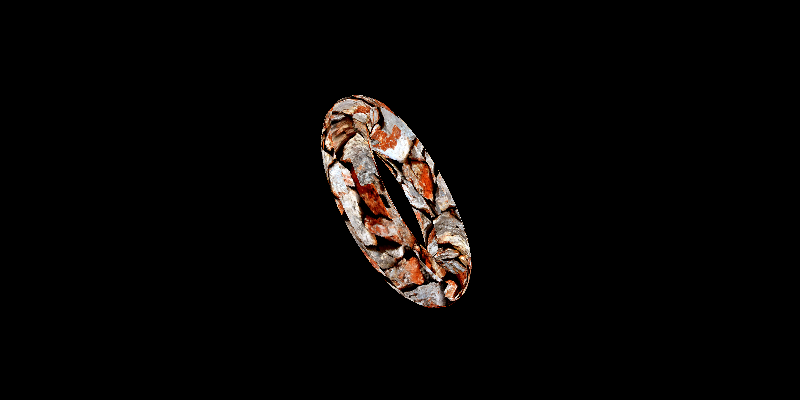
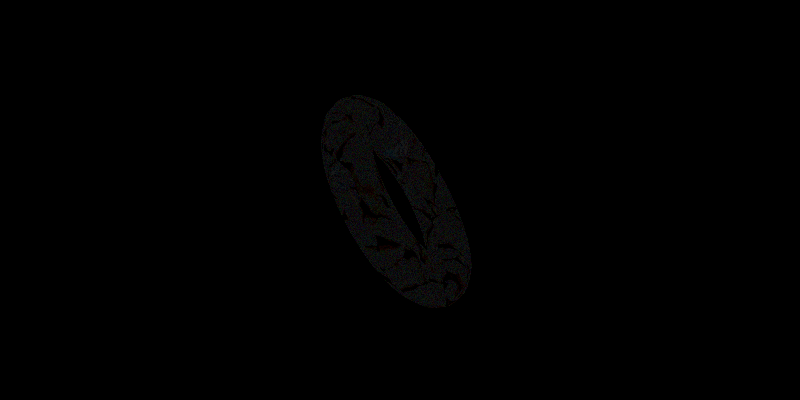
added

Changed region(s): [[0.375, 0.24, 0.5938, 0.78]]

diff --git a/src/fancytracer.c b/src/fancytracer.c
@@ -10,8 +10,10 @@
 const float FOCAL_LENGTH = 2.0f;
 const int WIDTH = 800;
 const int HEIGHT = 400;
+const int SAMPLES = 10;
 const char *FILENAME = "output.png";
 const char *OBJFILE = "baseScene.obj";
+
 
 void render_scene(const char *filename, const int width, const int height, const char *objfile) {
     // Measure total execution time
@@ -54,33 +56,36 @@ void render_scene(const char *filename, const int width, const int height, const
         #pragma omp for collapse(1) schedule(dynamic, 2) reduction(+:ray_intersect_time)
         for (int y = 0; y < height; y++) {
             for (int x = 0; x < width; x++) {
-                screen2CameraDir(&cam, x, y, &cam_ray.direction);
                 // Vec3 intersect_point;
                 double ray_intersect_start = omp_get_wtime();
-                Vec3 barycentric;
-                int tria_ind = castRay(&cam_ray, &mainScene, &barycentric);
-                int r, g, b;
-                r = 0;
-                g = 0;
-                b = 0;
-                if (tria_ind != -1) {
-                    // color = 255;
-                    Vec3 out_reflect;
-                    Triangle *this_tria = &mainScene.triangles->triangles[tria_ind];
-                    ray_intersects_triangle(&cam_ray, this_tria, &barycentric);
-                    Pixel pix = reflect(&cam_ray, &barycentric, this_tria, &out_reflect, &tex);
-                    r = pix.r;
-                    g = pix.g;
-                    b = pix.b;
+                Pixel final_col = {0, 0, 0, 255};
+                for (size_t sample = 0; sample < SAMPLES; sample++)
+                {
+                    screen2CameraDir(&cam, x, y, &cam_ray.direction);
+                    Vec3 barycentric;
+                    int tria_ind = castRay(&cam_ray, &mainScene, &barycentric);
+                    int r, g, b;
+                    if (tria_ind != -1) {
+                        // color = 255;
+                        Vec3 out_reflect;
+                        Triangle *this_tria = &mainScene.triangles->triangles[tria_ind];
+                        ray_intersects_triangle(&cam_ray, this_tria, &barycentric);
+                        Pixel pix = reflect(&cam_ray, &barycentric, this_tria, &out_reflect, &tex);
+                        final_col.r += pix.r;
+                        final_col.g += pix.g;
+                        final_col.b += pix.b;
+                    }
                 }
-
+                final_col.r /= SAMPLES;
+                final_col.g /= SAMPLES;
+                final_col.b /= SAMPLES;
                 double ray_intersect_end = omp_get_wtime();
                 thread_ray_intersect_time += (ray_intersect_end - ray_intersect_start);
                 thread_num_tests++;
                 int this_y = height - y - 1;
-                image[(this_y * width + x) * 3] = (unsigned char)(r);                  // Red
-                image[(this_y * width + x) * 3 + 1] = (unsigned char)(g);              // Green
-                image[(this_y * width + x) * 3 + 2] = (unsigned char)(b);              // Blue
+                image[(this_y * width + x) * 3] = (unsigned char)(final_col.r);                  // Red
+                image[(this_y * width + x) * 3 + 1] = (unsigned char)(final_col.g);              // Green
+                image[(this_y * width + x) * 3 + 2] = (unsigned char)(final_col.b);              // Blue
             }
         }
 
@@ -111,6 +116,7 @@ void render_scene(const char *filename, const int width, const int height, const
 }
 
 int main() {
+    srand(time(NULL));
     render_scene(FILENAME, WIDTH, HEIGHT, OBJFILE);
     printf("Image created successfully: %s\n", FILENAME);
     return 0;

diff --git a/src/mesh.h b/src/mesh.h
@@ -148,11 +148,18 @@ int ray_intersects_triangle(Ray *ray, Triangle *triangle, Vec3 *out) {
     return 0;
 }
 
+float randFloat(){
+    float x = (float)rand()/(float)(RAND_MAX);
+    return 0;
+}
+
 /* converts 2d pixel to camera ray */
 int screen2CameraDir(Camera *cam, int screenPos_x, int screenPos_y, Vec3 *result) {
+    float x = (float) screenPos_x + randFloat();
+    float y = (float) screenPos_y + randFloat();
     Vec3 cam_coor = {
-        (float)screenPos_x / (float)cam->height,
-        (float)screenPos_y / (float)cam->height,
+        x / (float)cam->height,
+        y / (float)cam->height,
         0
     };
     Vec3 center_shift = {
